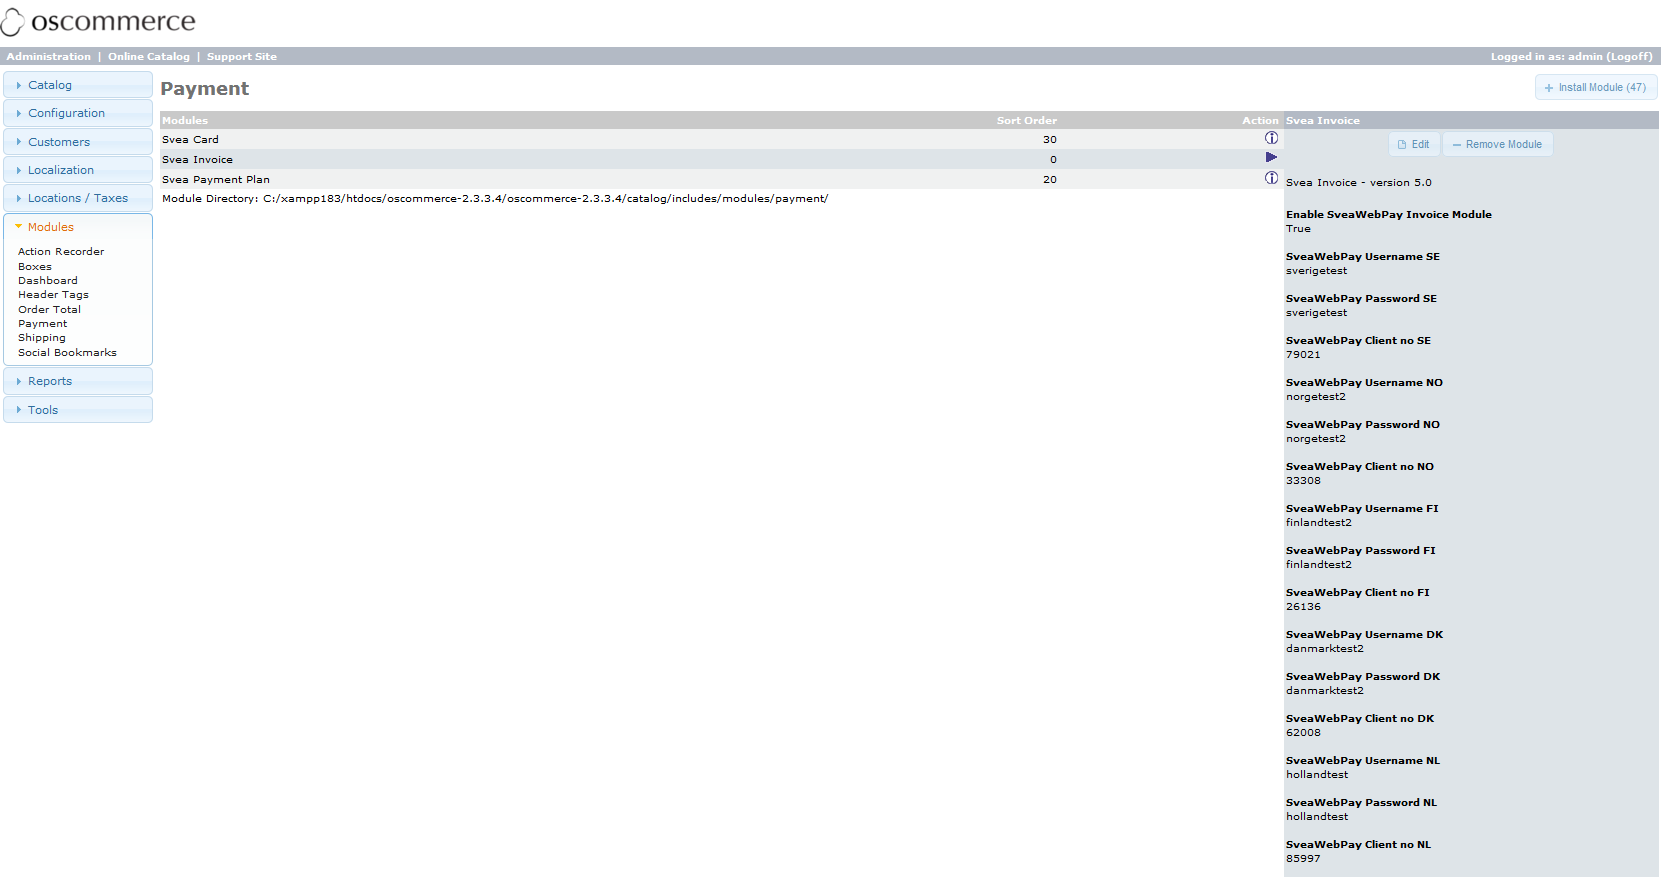
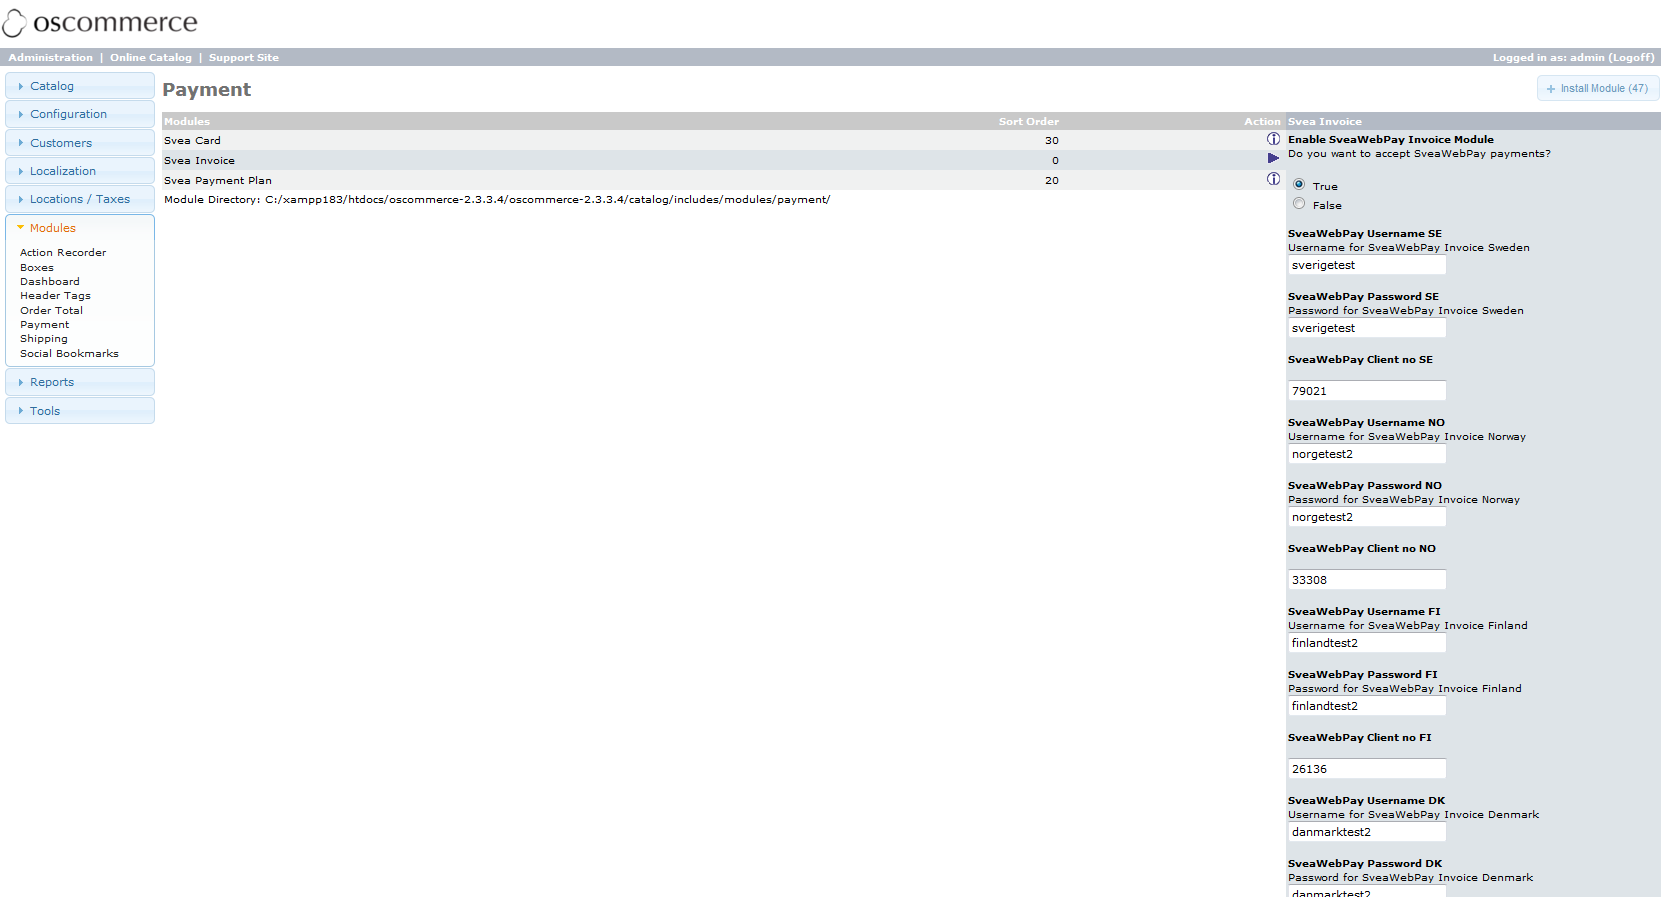
Updated documentation, added screenshots of Svea module configuration.

Changed region(s): [[0.0, 0.0, 1.0, 1.0]]

diff --git a/README.md b/README.md
@@ -1,27 +1,210 @@
-# osCommerce - Svea WebPay payment module
+# osCommerce - Svea payment module
+## Version 5.0.0
+* Tested with osCommerce 3.3.3.4
+* Requires PHP 5.3 or later (namespace support)
 
-These modules are only tested in OsCommerce 2.2 MS2, 2.2 RC2a and 2.3.1. 
-Problems can occur with other versions of OsCommerce.
+## Release history
+For release history, see [**github release tags**](https://github.com/sveawebpay/oscommerce-module/releases)
 
-Copy all files in the src folder to the root directory for your installation. The folders should merge with the folders of the same name.
+## Introduction
+This module supports Svea invoice and payment plan payments in Sweden, Finland, Norway, Denmark, Netherlands and Germany, as well as creditcard and direct bank payments from all countries. 
 
-##Important info when using card and direct bank payments
-The request made from this module to SVEAs systems is made through a redirected form. 
-The response of the payment is then sent back to the module via POST or GET (selectable in our admin).
+The module has been tested with osCommerce and pre-installed order total modules, including the Svea invoice fee module. The module has been updated to make use of the latest payment systems at Svea, and builds upon the included Svea php integration package.
 
-###When using GET
-Have in mind that a long response string sent via GET could get cut off in some browsers and especially in some servers due to server limitations. 
-Our recommendation to solve this is to check the PHP configuration of the server and set it to accept at LEAST 512 characters.
+As always, we strongly recommend that you have a test environment set up, and make a backup of your existing site, database and settings before upgrading.
+
+If you experience technical issues with this module, or if you have feature suggestions, please submit an issue on the Github issue list.
+
+#Installation instructions
+
+## Upgrading from a previous version of the module
+
+* From module version 4.3.x or earlier: The module has been rewritten from scratch. If you are upgrading from the previous version of this module, all payment methods should be uninstalled and then re-installed when upgrading (please make note of your previous configuration settings). This ensures that all settings are initialised correctly. 
 
 
-###When using POST
-As our servers are using SSL certificates and when using POST to get the response from a payment the users browser propmts the user with a question whether to continue or not, if the receiving site does not have a certificate.
-Would the customer then click cancel, the process does not continue.  This does not occur if your server holds a certicifate. To solve this we recommend that you purchase a SSL certificate from your provider.
 
-We can recommend the following certificate providers:
-* InfraSec:  infrasec.se
-* VeriSign : verisign.com
+##Basic installation example using the Svea Invoice payment method
 
-## History
+The following example assumes that you have already downloaded and installed osCommerce as described in the [osCommerce documentation](http://library.oscommerce.com/).
 
-4.3.3 (131206) Invoice payments now accepted from company customers. Better handling of SoapFault exceptions in invoice, part payment payment methods.
+This guide covers how to install the Svea osCommerce module and install various payment methods in your osCommerce shop, as well as the various localisation and other settings you need to make to ensure that the payment modules works properly.
+
+### Install the Zen Cart Svea payment module files
+
+* Download or clone the contents of [this repository from github](https://github.com/sveawebpay/oscommerce-module). Unless instructed otherwise by Svea support, we recommend that you use only the default master branch of the repository, which contain the latest stable and tested module release.
+
+* Copy the contents of the src folder to your osCommerce root folder.
+
+* Make sure to merge the files and folders from the module with the ones in your osCommerce installation, replacing any previously installed files with updated versions.
+
+* This module depends on the Svea php integration package, which is included under the "ext/modules/payment/svea" folder. (There should be no need to upgrade the integration package separately from the osCommerce module, unless instructed to do so by Svea support.)
+
+### Configure the payment modules in the osCommerce admin panel
+In this example we'll first configure the Svea invoice payment method, instructions for other payment methods then follows below.
+
+#### Svea Invoice configuration
+
+* Log in to your osCommerce admin panel.
+
+* Browse to _Modules -> Payment_ in the osCommerce admin left-hand menu. Any installed payment methods should then appear in a list. 
+
+* Press the _Install Module_ button in the screen upper right to view the uninstalled payment methods. Locate the Svea payment method you wish to install.
+
+* Select the payment method and press the _Install Module_ button in the right-hand pane. For now, select and install the Svea Invoice payment method.
+
+* You will now see the choosen method in the list of installed payment methods. Select the _edit_ button to modify the payment method settings. 
+
+![Invoice payment settings] (https://github.com/sveawebpay/zencart-module/raw/develop/docs/image/invoice_settings_1.PNG "Svea Invoice settings 1")
+
+* _Enable Svea Invoice Module_: if set to false, the module is disabled and won't show up in the customer list of available payment methods on checkout.
+
+* _Svea Username XX_, _Svea Password XX_ and _Svea Client no XX_: enter the username and password that corresponds to your client number for the country(XX) in question. You can only accept invoice payments from countries for which you have entered credentials, other country fields should be left empty. Test credentials will be provided to you by your Svea integration manager upon request. 
+
+![Invoice payment settings] (https://github.com/sveawebpay/zencart-module/raw/develop/docs/image/invoice_settings_2.PNG "Svea Invoice settings 2")
+
+* _Transaction mode_: Determines whether payments using this method go to Svea's test or production servers. Until you have been giving the go ahead by your Svea integration manager, this should be set to Test. Then, in order to receive payments for production orders, this setting should be switched over to Production.
+
+* _Set Order Status_: The osCommerce order status given to orders after the customer has completed checkout.
+
+* _Display SveaWebPay Images_: Set to true if you wish to display the Svea payment method logos during checkout payment method selection.
+
+* _Ignore OT list_: if you experience problems with i.e. incompatible order total modules, the module name(s) may be entered here and will then be ignored by the invoice payment module when writing the request to Svea.
+
+* _Payment Zone_: if a zone is selected here, invoice payments will only be accepted from within that zone. See "Localisation and additional osCommerce configuration requirements" below.
+
+* _Sort order of display_: determines the order in which payment methods are presented to the customer on checkout. The method are listed in ascending order on the payment method selection page.
+
+* Finally, remember to _save_ your settings.
+
+Also, make sure you have defined all relevant currencies for countries you accept invoice payments from. See "Localisation and additional osCommerce configuration requirements" below.
+ 
+#### Setting up the Svea Invoice handling fee order total module
+The Svea Invoice handling fee order total module is used to add an invoice fee to the order total when the Svea Invoice payment method is selected during checkout.
+
+* Browse to _Modules -> Order Total_ in the osCommerce admin left-hand menu. Install the Svea Invoice handling fee module, following the same procedure as detailed for the Svea Invoice payment method above.
+
+* Select _Svea Invoice handling fee_ from the list of installed order total modules and select the _edit_ button:
+
+![Invoice fee settings] (https://github.com/sveawebpay/zencart-module/raw/develop/docs/image/invoice_fee_settings.PNG "Invoice fee settings")
+
+* _Enable Svea Invoice Fee_: If set to false, no invoice fee will be applied to invoice payments in any country. (If you wish to temporarily disable a single country invoice fee, set its fee entry to 0 below and it will not show up in the order total.)
+
+* _Sort order_ determines where in the order total stack the invoice fee will be displayed upon checkout. See recommendations under "Order Total settings" below.
+
+The invoice fee and tax class need to be specified for each country from which you accept invoice payments. (Note that you also need to have the invoice payment method set up to accept customers from these countries. Please contact your Svea integration manager if you have further questions.
+
+* _Fee_: Specify the amount excluding tax in the respective country currency. Note that the invoice fee always should be specified excluding tax and in the country currency, not the shop default currency. Also, make sure to use the correct decimal point notation, i.e. a dot (.) when specifying the fee.
+
+* _Tax class_: Select the tax class that will be applied to the invoice fee.
+
+* Finally, remember to _save_ your settings.
+
+### Other payment methods
+For the other Svea payment methods (payment plan, card payment and direct bank payment), see below.
+
+#### Svea Payment Plan configuration
+
+* Browse to _Modules -> Payment_ in the osCommerce admin left-hand menu. Install the Svea Payment Plan module, following the same procedure as detailed for the Svea Invoice payment method above.
+
+* Select and then _edit_ the _Svea Payment Plan module_ from the list of installed modules:
+
+* _Enable Svea Payment Plan Module_: if set to false, the module is disabled and won't show up in the customer list of available payment methods on checkout.
+
+* _Svea Username XX_, _Svea Password XX_ and _Svea Client no XX_: enter the username and password that corresponds to your client number for the country(XX) in question. You can only accept payment plan payments from countries for which you have entered credentials, other country fields should be left empty. Test credentials will be provided to you by your Svea integration manager upon request. 
+
+* _Min amount for <Country> in <Currency>_ and _Max amount for <Country> in <Currency>_: The minimum and maximum amount for the various campaigns. Use the minimum and maximum value over the set of all active campaigns. Ask your Svea integration manager if unsure.
+
+* _Transaction mode_: Determines whether payments using this method go to Svea's test or production servers. Until you have been giving the go ahead by Svea, this should be set to Test. Then, in order to receive payments for production orders, this should be switched over to its Production setting.
+
+* _Set Order Status_: The osCommerce order status given to orders after the customer has completed checkout.
+
+* _Ignore OT list_: if you experience problems with i.e. incompatible order total modules, the module name(s) may be entered here and will then be ignored by the invoice payment module.
+
+* _Payment Zone_: if a zone is selected here, invoice payments will only be accepted from within that zone. See "Localisation and additional Zen Cart configuration requirements" below.
+
+* _Sort order of display_: determines the order in which payment methods are presented to the customer on checkout. The method are listed in ascending order on the payment method selection page.
+
+* Finally, remember to _save_ your settings.
+
+Also, make sure you have defined all relevant currencies for countries you accept payment plan payments from. See "Localisation and additional osCommerce configuration requirements" below.
+
+#### Svea Card configuration
+
+* Browse to _Modules -> Payment_ in the osCommerce admin left-hand menu. Install the Svea Card module, following the same procedure as detailed for the Svea Invoice payment method above.
+
+* Select and then _edit_ the _Svea Card module_ from the list of installed modules:
+
+* _Enable Svea Card Payment Module_: if set to false, the module is disabled and won't show up in the customer list of available payment methods on checkout
+
+* _Svea Card Merchant ID_ and _Svea Card Secret Word_: enter your provided merchant ID and secret word. These are provided to you by your Svea integration manager.
+
+* _Svea Card Test Merchant ID_ and _Svea Card Test Secret Word_: enter your provided test merchant ID and secret word. Test credentials will be provided to you by Svea upon request.
+
+* _Transaction mode_: Determines whether payments using this method go to Svea's test or production servers. Until you have been giving the go ahead by Svea, this should be set to Test. Then, in order to receive payments for production orders, this should be switched over to its Production setting.
+
+* _Set Order Status_: The osCommerce order status given to orders after the customer has completed checkout.
+
+* _Ignore OT list_: if you experience problems with i.e. incompatible order total modules, the module name(s) may be entered here and will then be ignored by the invoice payment module.
+
+* _Payment Zone_: if a zone is selected here, invoice payments will only be accepted from within that zone. See "Localisation and additional Zen Cart configuration requirements" below.
+
+* _Sort order of display_: determines the order in which payment methods are presented to the customer on checkout. The method are listed in ascending order on the payment method selection page.
+
+* Finally, remember to _save_ your settings.
+
+#### Svea Direct Bank configuration
+* Browse to _Modules -> Payment_ in the osCommerce admin left-hand menu. Install the Svea Direct Bank module, following the same procedure as detailed for the Svea Invoice payment method above.
+
+* Select and then _edit_ the _Svea Direct Bank module_ from the list of installed modules:
+
+* _Enable Svea Direct Bank Payment Module_: if set to false, the module is disabled and won't show up in the customer list of available payment methods on checkout
+
+* _Svea Direct Bank Merchant ID_ and _Svea Direct Bank Secret Word_: enter your provided merchant ID and secret word. These are provided to you by your Svea integration manager. 
+
+* _Svea Direct Bank Test Merchant ID_ and _Svea Direct Bank Test Secret Word_: enter your provided test merchant ID and secret word. Test credentials will be provided to you by Svea upon request.
+
+* _Transaction mode_: Determines whether payments using this method go to Svea's test or production servers. Until you have been giving the go ahead by Svea, this should be set to Test. Then, in order to receive payments for production orders, this should be switched over to its Production setting.
+
+* _Set Order Status_: The osCommerce order status given to orders after the customer has completed checkout.
+
+* _Display SveaWebPay Images_: Set to true if you wish to display the available bank logos during checkout payment method selection.
+
+* _Ignore OT list_: if you experience problems with i.e. incompatible order total modules, the module name(s) may be entered here and will then be ignored by the invoice payment module.
+
+* _Payment Zone_: if a zone is selected here, invoice payments will only be accepted from within that zone. See "Localisation and additional osCommerce configuration requirements" below.
+
+* _Sort order of display_: determines the order in which payment methods are presented to the customer on checkout. The method are listed in ascending order on the payment method selection page.
+
+* Finally, remember to _save_ your settings.
+
+##Localisation and additional osCommerce configuration requirements
+
+### Country specific requirements
+* In NL and GE stores, the postal code needs to be set to required for customer registrations. It is used by the invoice and payment plan modules for credit check information et al.
+
+### Currencies settings
+* Under _Localisation -> Currencies_, all currencies used in countries where you accept invoice or payment plan payments must be defined or the customer will see warning message and your module will not work. The following is a list of countries and their respective currencies: SE (SEK), DK (DKK), NO (NOK), FI (EUR), DE (EUR), NL (EUR).
+
+* Under _Localisation -> Currencies_, the _Decimal Places_ setting should be set to two (2) for _Euro_.
+
+### Order Total settings
+* The recommended order total modules sort order is: sub-total (lowest), svea invoice fee, shipping, coupon, taxes, store credit, voucher and total.
+
+##Troubleshooting and recommendations
+Always check that you have set up your osCommerce settings correctly before posting issues or contacting Svea support. Specifically, the following settings must all be in place for the payment modules to work correctly in the various countries:
+
+### Check your Svea customer credentials
+* Your _username, password_, and _client no_ for Invoice and Part Payment, and the country in question, are set to the correct values.
+
+* Your _secret word_ and _merchant id_ for Card and Direct bank payments are correct.
+
+### Check correlated osCommerce settings and localisations
+* Under _Locations/Taxes_ and _Localisation_, the correlating _Tax classes, Tax rates_, _Currencies_, _Zone_ and _Zone Definitions_ settings are correct.
+
+* Under _Modules -> Order Totals_, double check that the sort order et al is correct.
+
+* You are using test case credentials when conducting test purchases.
+
+### General FAQ
+
+(intentionally left blank)
